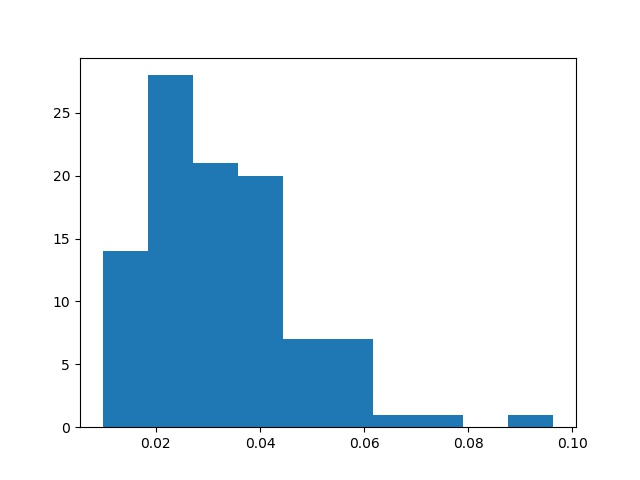
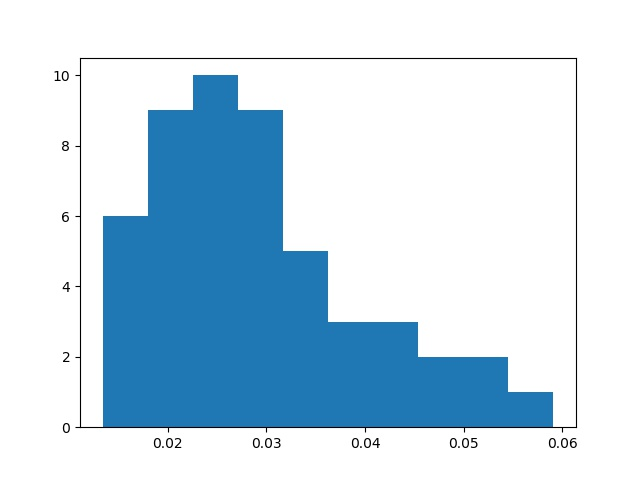
5-29

diff --git a/one_sample_lstm.py b/one_sample_lstm.py
@@ -34,7 +34,7 @@ def get_chunk(timesteps,num_input,future_time,n=1):
         # components and weights
         comp = weight0.iloc[current_comp_index,:][weight0.iloc[current_comp_index,:]>0]
         # pick num_input stocks(loc)
-        stocks = random.sample(range(0,499),num_input)
+        stocks = random.sample(range(0,500),num_input)
         # stocks and weights
         stocks = comp.index[stocks]
         weights = list(comp[stocks])
@@ -74,7 +74,7 @@ class one_sample_lstm():
         with self.graph.as_default():
             self.tf_train_samples = tf.placeholder("float", [None, self.timesteps, self.num_input])
             self.tf_train_future_return = tf.placeholder("float", [None, self.future_time, self.num_input])
-            self.weight0 = tf.placeholder("float",[None,self.num_input])
+            self.weight0 = tf.placeholder("float",[self.num_input])
 
             weights = {
                 'out': tf.Variable(tf.random_normal([self.num_hidden, self.num_input]))
@@ -128,7 +128,7 @@ class one_sample_lstm():
                 _, l[step], fl[step], w[step] = sess.run([self.optimizer,self.loss,self.future_loss,self.prediction], 
                                         feed_dict={self.tf_train_samples: training_x, self.tf_train_future_return: training_y, self.weight0: weight0})       
                 if step % self.display_step == 0:
-                    print("Step " + str(step) + ", Loss= " + format(l[step]) + ", Future Loss= " + format(fl[step]))
+                    print("Step " + str(step) + ", Loss= " + format(math.sqrt(l[step]*250)) + ", Future Loss= " + format(math.sqrt(fl[step]*250)))
 
             print("Optimization Finished!")
 
@@ -136,13 +136,13 @@ class one_sample_lstm():
             self.fl = fl[-1]
             self.w = w[-1]
             self.fl_1000 = fl[1000]
-            plt.figure()
-            plt.plot(l, 'r', label='training loss')  
-            plt.plot(fl, label='future loss')
-            plt.savefig("loss.jpg") 
+            #plt.figure()
+            #plt.plot(l, 'r', label='training loss')  
+            #plt.plot(fl, label='future loss')
+            #plt.savefig("loss.jpg") 
 
 if __name__ == '__main__':
-    num_exp = 100
+    num_exp = 50
     num_input = 500
     l = np.zeros(num_exp)
     fl = np.zeros(num_exp)
@@ -178,7 +178,7 @@ if __name__ == '__main__':
     plt.savefig("hist-fl.jpg")
 
     plt.figure()
-    plt.hist(w[1])
+    plt.hist(w[40])
     plt.savefig("weight-dist.jpg")
 
     
